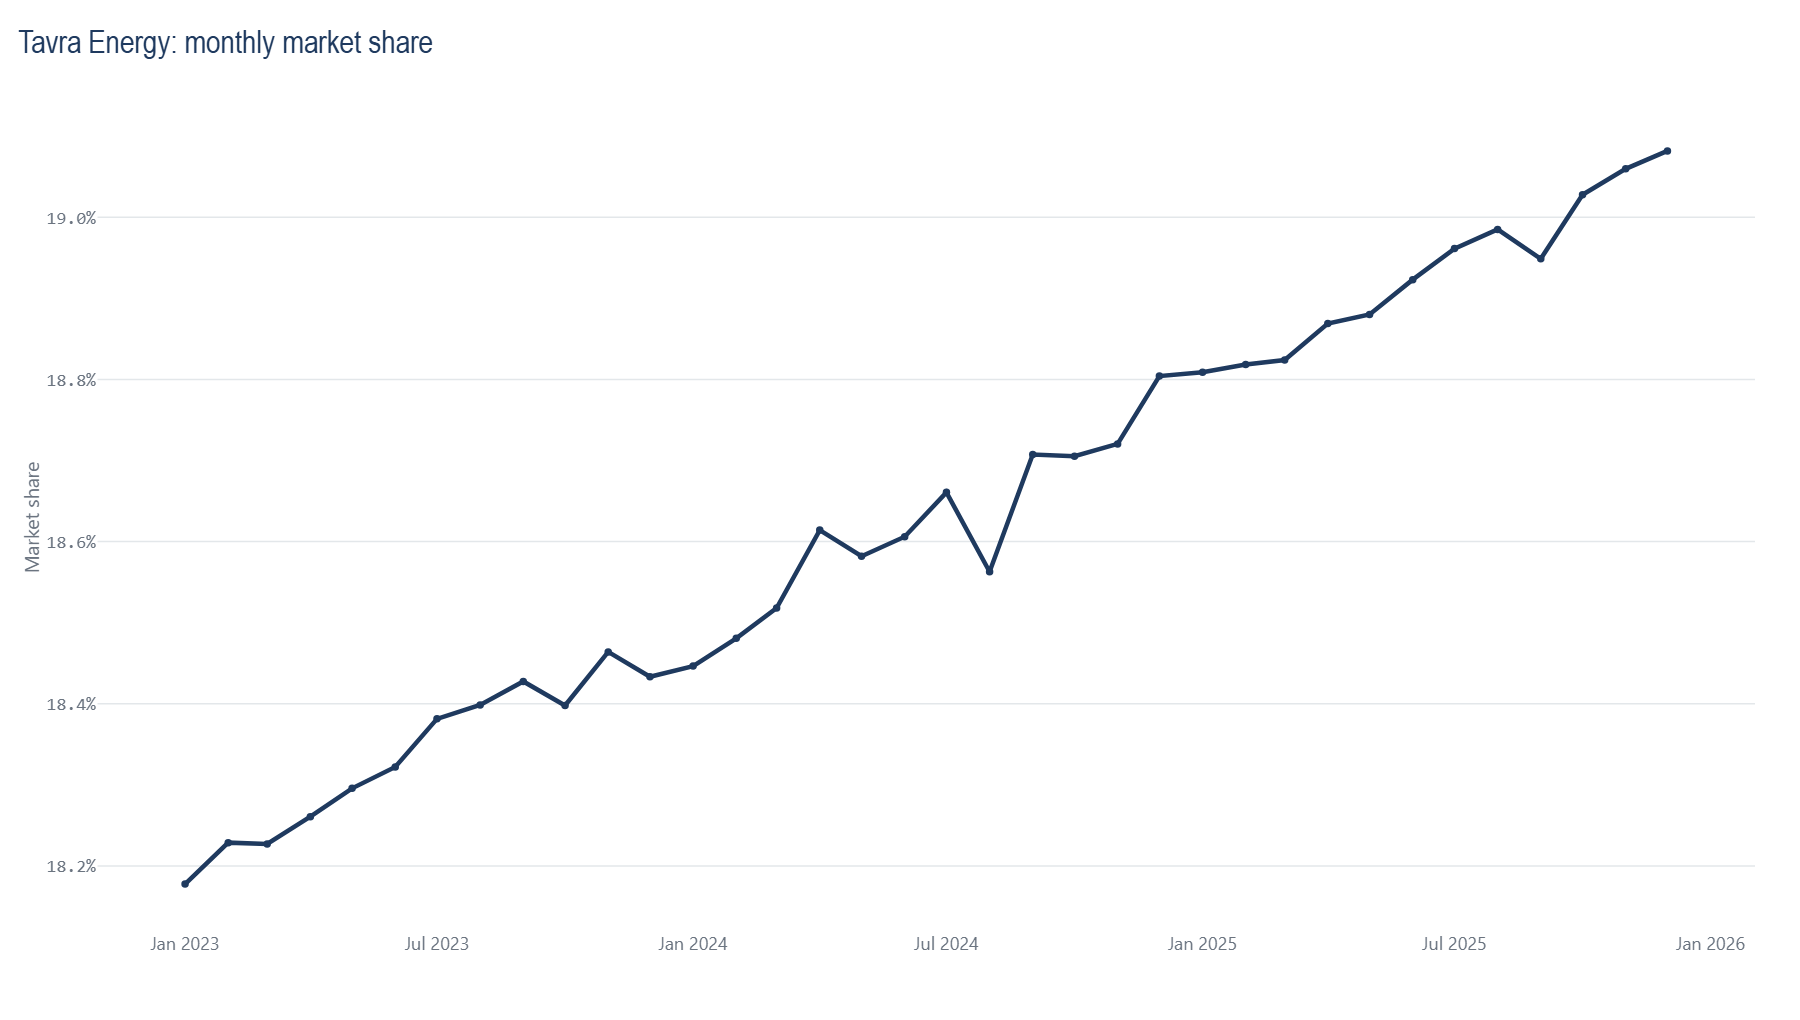
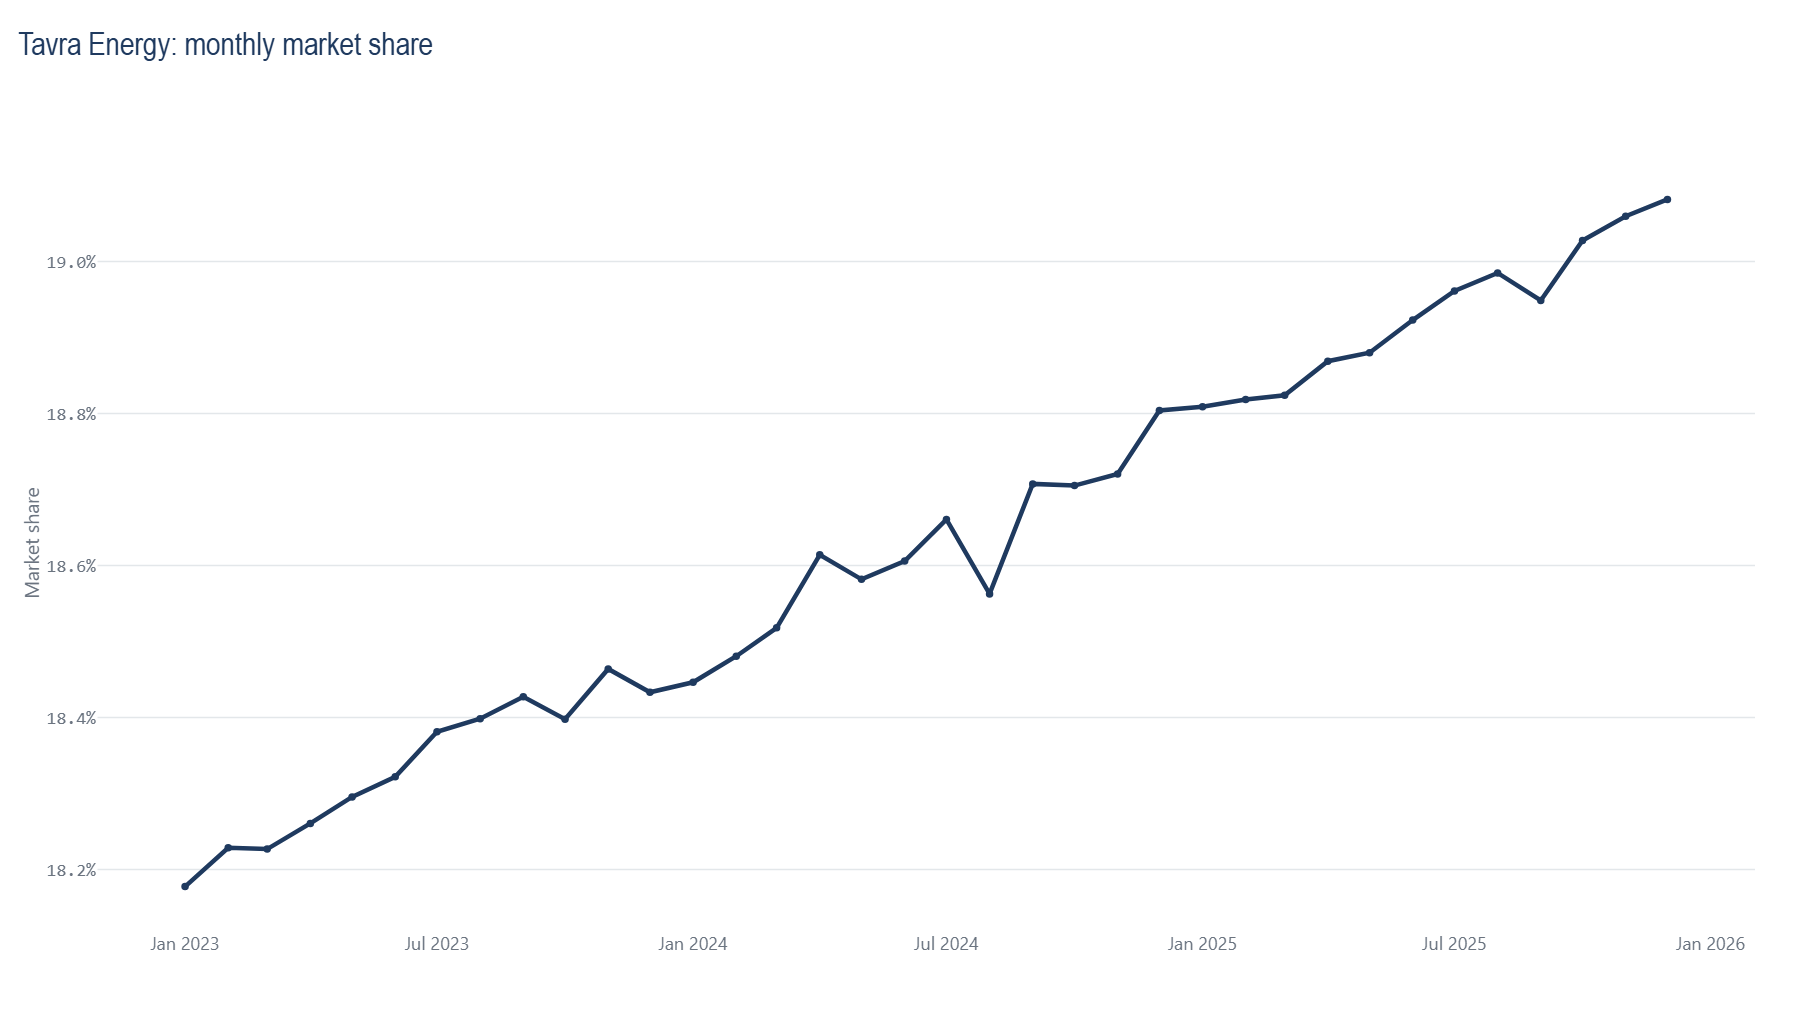
Fix title and legend collisions in the exported charts
Pin the chart title to the top of the canvas with the legend below it and a
wider top margin, keep recommendation labels clear of the bars, move the
promotion chart's true-value label off the estimate, set method names in
the body face and draw the true-value diamond hollow so the estimate dot
shows when both coincide.

diff --git a/src/energy_market_intelligence/pricing_visualization.py b/src/energy_market_intelligence/pricing_visualization.py
@@ -310,9 +310,10 @@ def elasticity_recovery_figure(table: pd.DataFrame) -> go.Figure:
             y=table["customer_segment_name"],
             mode="markers",
             name="True value (data generator)",
+            # Hollow and larger than the estimate dot, so both marks show when they coincide.
             marker={
-                "color": "#FFFFFF",
-                "size": 13,
+                "color": "rgba(255,255,255,0)",
+                "size": 18,
                 "symbol": "diamond",
                 "line": {"color": INK, "width": 2},
             },
@@ -392,6 +393,7 @@ def promo_did_figure(
         line_dash="dash",
         line_color=INK,
         annotation_text=f"true value {format_pct(truth / 100, 0)}",
+        annotation_position="bottom right",
         row=1,
         col=2,
     )
@@ -399,8 +401,10 @@ def promo_did_figure(
     apply_business_theme(figure)
     figure.update_layout(
         legend={"orientation": "h", "yanchor": "top", "y": -0.2, "x": 0},
-        margin={"l": 65, "r": 30, "t": 80, "b": 120},
+        margin={"l": 65, "r": 30, "t": 104, "b": 120},
     )
+    # Method names are words, not numbers: body face, not the data mono.
+    figure.update_yaxes(tickfont={"family": FONT_BODY, "size": 13, "color": INK}, row=1, col=2)
     figure.update_xaxes(title="Month (1 = January 2023, 36 = December 2025)", row=1, col=1)
     figure.update_xaxes(title="Extra volume effect (%)", row=1, col=2, showgrid=True)
     return figure
@@ -443,9 +447,11 @@ def price_recommendation_figure(table: pd.DataFrame) -> go.Figure:
     figure.update_layout(title="Recommended price step: expected 12-month change in gross profit")
     apply_business_theme(figure, mono_axis="x")
     figure.update_yaxes(
-        showgrid=False, ticksuffix="  ", tickfont={"family": FONT_BODY, "size": 13, "color": INK}
+        showgrid=False,
+        ticklabelstandoff=12,  # both label lines clear the bar, not only the last one
+        tickfont={"family": FONT_BODY, "size": 13, "color": INK},
     )
-    figure.update_layout(margin={"l": 210, "r": 30, "t": 70, "b": 60})
+    figure.update_layout(margin={"l": 220, "r": 30, "t": 104, "b": 60})
     figure.update_xaxes(
         title="TRY m, constant 2025 prices (bar = estimate, line = elasticity confidence interval)"
     )

diff --git a/src/energy_market_intelligence/visualization.py b/src/energy_market_intelligence/visualization.py
@@ -45,19 +45,25 @@ def _build_template() -> go.layout.Template:
     }
     layout = go.Layout(
         font={"family": FONT_BODY, "size": 14, "color": INK},
+        # Title pinned to the top of the canvas, legend pinned under it: the gap between them
+        # holds even when the export falls back to a wider system font.
         title={
             "x": 0.01,
             "xanchor": "left",
+            "yref": "container",
+            "y": 1,
+            "yanchor": "top",
+            "pad": {"t": 22},
             "font": {"family": FONT_HEADING, "size": 21, "color": NAVY},
         },
         paper_bgcolor="rgba(0,0,0,0)",
         plot_bgcolor="rgba(0,0,0,0)",
         colorway=[NAVY, SLATE, NAVY_SOFT, SLATE_SOFT, "#3E5C86"],
-        margin={"l": 65, "r": 30, "t": 70, "b": 60},
+        margin={"l": 65, "r": 30, "t": 104, "b": 60},
         legend={
             "orientation": "h",
             "yanchor": "bottom",
-            "y": 1.02,
+            "y": 1.03,
             "x": 0,
             "font": {"family": FONT_BODY, "size": 13, "color": INK},
         },

diff --git a/CHANGELOG.md b/CHANGELOG.md
@@ -6,6 +6,10 @@ All notable changes to this project are documented here.
 
 The whole project and the app are now in English, and the app shows only the pricing story. All numeric results are unchanged: elasticities, promotion uplift, waterfall amounts and recommendation totals are the same as in 2.2.0.
 
+### Fixed
+
+- Exported charts: the title no longer collides with the legend (title pinned to the top, legend below it, wider top margin), recommendation labels clear the bars, the promotion chart's true-value label no longer sits on the estimate, method names use the body face, and the true-value diamond is hollow so the estimate dot stays visible when they coincide.
+
 ### Python
 
 - Python 3.14 is the main version; CI tests 3.12 and 3.14 and runs 3.15 as an informational job (DuckDB has no 3.15 wheels yet). The devcontainer uses Python 3.14. Dependency ranges allow pandas 3 and Plotly 7; text columns stored as pandas 3's `str` dtype are now translated in tables too.
